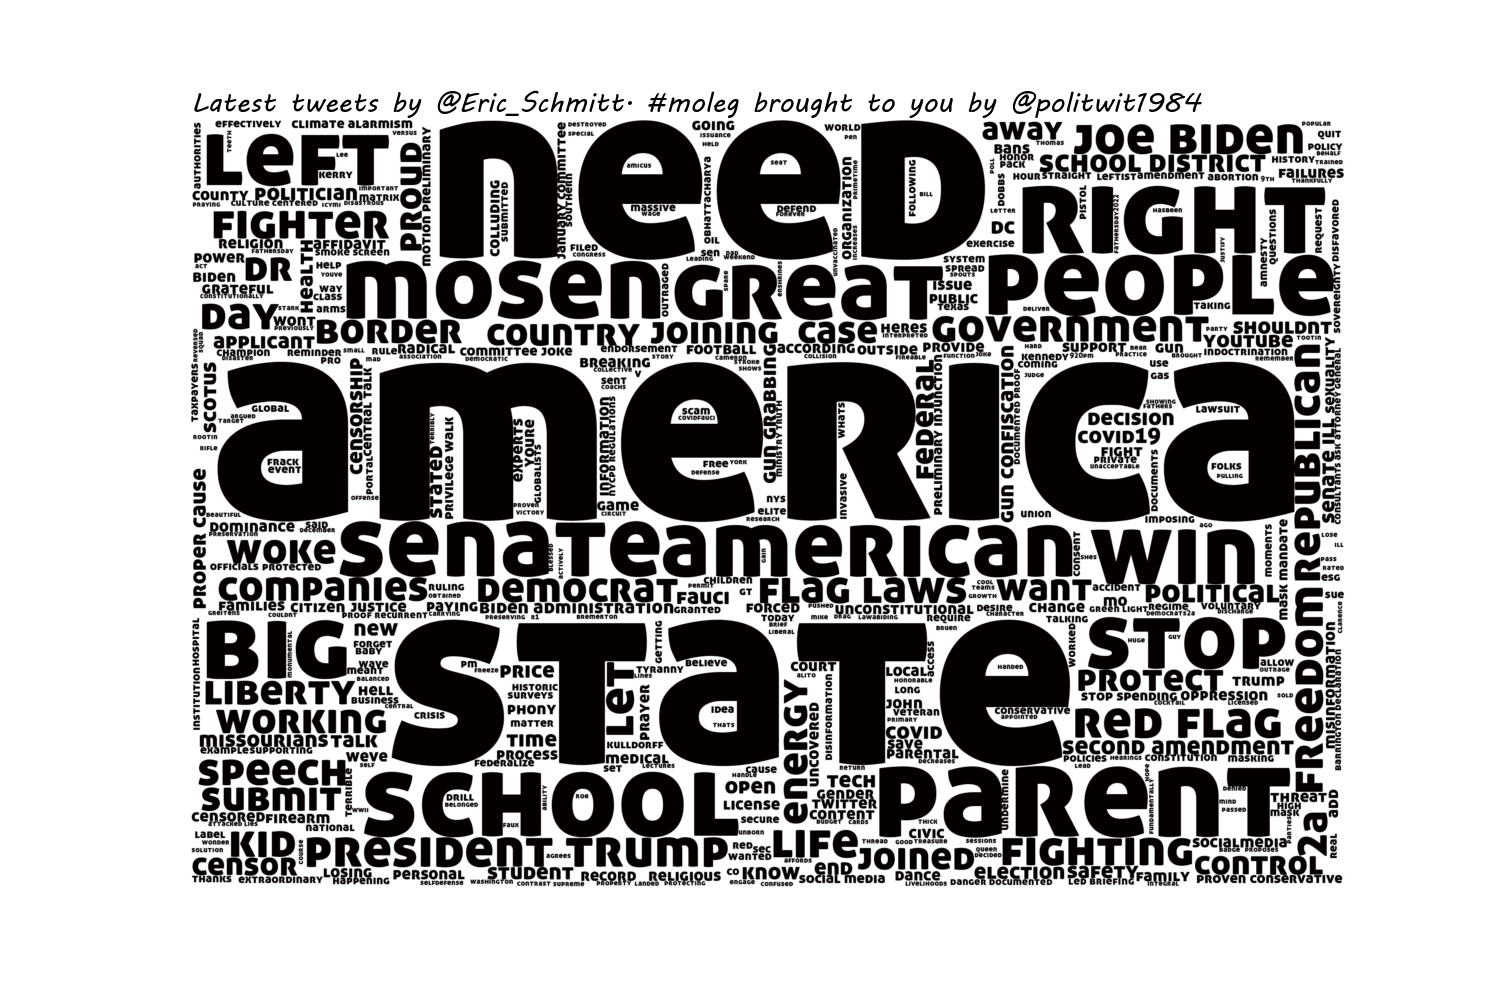
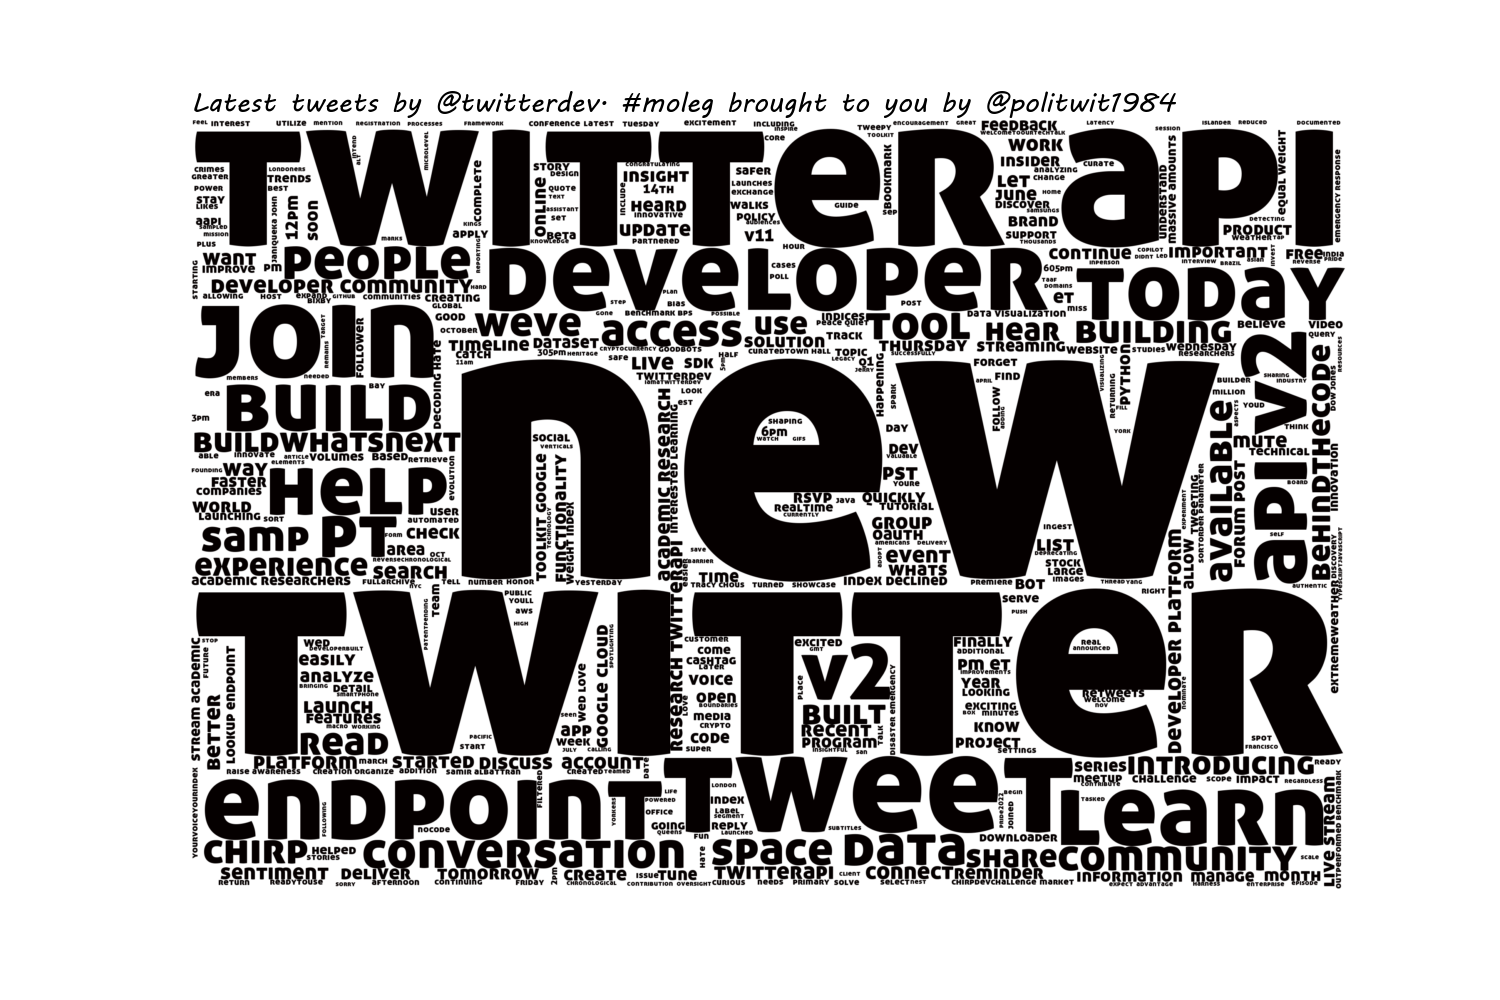
streamlit commits

diff --git a/app.py b/app.py
@@ -10,14 +10,13 @@ from nltk.tokenize import word_tokenize
 from PIL import Image
 from wordcloud import WordCloud
 import nltk
-nltk.download('punkt')
+
+nltk.download("punkt")
 
 
-auth = tweepy.OAuthHandler(st.secrets["consumer_key"],
-                           st.secrets["consumer_secret"])
+auth = tweepy.OAuthHandler(st.secrets["consumer_key"], st.secrets["consumer_secret"])
 
-auth.set_access_token(st.secrets["access_token"],
-                      st.secrets["access_token_secret"])
+auth.set_access_token(st.secrets["access_token"], st.secrets["access_token_secret"])
 
 api = tweepy.API(auth)
 client = tweepy.Client(bearer_token=st.secrets["bearer_token"])
@@ -357,7 +356,7 @@ new_stopwords = [
     "amp",
     "ive",
     "cant",
-    "dont"
+    "dont",
 ]
 
 stpwrd = []
@@ -372,7 +371,7 @@ class twitwit:
     def stringIT(self, wannabestring):
         convertedstring = ",".join(map(str, wannabestring))
         return convertedstring
-    
+
     def getFollowedList(self, user_id):
         response = client.get_followed_lists(id=user_id)
         return response
@@ -417,7 +416,7 @@ class twitwit:
                 )
                 final_clean_tweet = final_clean_tweet.lower()
                 clean_tweet_word_list.append(final_clean_tweet)
-                
+
         convertedstring = ",".join(map(str, clean_tweet_word_list))
         re.sub(" +", " ", convertedstring)
         convertedstring = convertedstring.replace(",,", " ")
@@ -459,20 +458,27 @@ class twitwit:
         else:
             img_mask = None
             location = "left"
-            
+
         title_font = {"family": "MV Boli", "color": "black", "size": 20}
 
-        wordcloud = WordCloud(font_path = 'AllerDisplay.ttf', background_color="white", width=3000, height=2000, mask = img_mask, max_words=500).generate_from_text(data)
-        wordcloud.recolor(color_func = self._black_color_func)
-        plt.figure(figsize=(15,10))
+        wordcloud = WordCloud(
+            font_path="AllerDisplay.ttf",
+            background_color="white",
+            width=3000,
+            height=2000,
+            mask=img_mask,
+            max_words=500,
+        ).generate_from_text(data)
+        wordcloud.recolor(color_func=self._black_color_func)
+        plt.figure(figsize=(15, 10))
         plt.title(title, fontdict=title_font, loc=location)
         plt.imshow(wordcloud, interpolation="bilinear")
         plt.axis("off")
         plt.show()
-        plt.savefig('words.png')
-        
+        plt.savefig("words.png")
+
         return
-    
+
     def get_user_information(self, twitter_user):
 
         dict = {}
@@ -497,73 +503,108 @@ class twitwit:
 
         return dict
 
+    def get_twitter_trends(self):
+        trend_list = []
+        response = api.get_place_trends("2486982")  # WOEID for St. Louis, MO
+
+        for i in response:
+            for key in i.keys():
+                if key == "trends":
+                    for trend in i[key]:
+                        trend_list.append(trend["name"] + ", " + trend["url"])
+
+        return trend_list
+
+
 t = twitwit()
 st.title("Twitter Utilities")
-st.set_option('deprecation.showPyplotGlobalUse', False)
+st.set_option("deprecation.showPyplotGlobalUse", False)
 
-selection_list = ["Twitter User Information", "Twitter User Wordcloud by Tweets", "Twitter User Wordcloud by Likes"]
+selection_list = [
+    "Twitter User Information",
+    "Twitter User Wordcloud by Tweets",
+    "Twitter User Wordcloud by Likes",
+    "Twitter Trends near St. Louis, MO",
+]
 st.sidebar.title("Select Twitter Tool")
-selection = st.sidebar.selectbox(label = "", options = selection_list)
+selection = st.sidebar.selectbox(label="", options=selection_list)
 
 if selection == "Twitter User Information":
     st.header("Get Twitter User Information")
     twitter_name = st.text_input(
         "Enter Twitter Screen Name to Get Information about Twitter User:"
-        )
+    )
     if twitter_name:
         user_info = t.get_user_information(twitter_name)
-        st.image(user_info['user_image_url'])
-        st.write("Link to Twitter User Profile: ", user_info['user_profile_link'])
+        st.image(user_info["user_image_url"])
+        st.write("Link to Twitter User Profile: ", user_info["user_profile_link"])
         st.write("Twitter Screen Name: ", f"@{user_info['screen_name']}")
-        st.write("Twitter User Name: ", user_info['user_name'])
-        st.write("Twitter User ID ", user_info['user_twitter_id'])
-        st.write("Twitter User Created on: ", user_info['user_created_at'])
-        st.write("Twitter User Verified Status: ", user_info['user_verified'])
-        st.write("Twitter User Description: ", user_info['user_description'])
-        st.write("Twitter User # of Tweets: ", user_info['user_tweets'])
-        st.write("Twitter User # of Liked Tweets: ", user_info['user_liked_tweets'])
-        st.write("Twitter User Followers: ", user_info['user_following_count'])
-        st.write("Twitter User Following ", user_info['user_followers_count'])
-        st.write("Twitter Geo Enabled: ", user_info['user_get_enabled'])
-        st.write("Twitter User List Membershops: ", user_info['user_listed_count'])
-        
+        st.write("Twitter User Name: ", user_info["user_name"])
+        st.write("Twitter User ID ", user_info["user_twitter_id"])
+        st.write("Twitter User Created on: ", user_info["user_created_at"])
+        st.write("Twitter User Verified Status: ", user_info["user_verified"])
+        st.write("Twitter User Description: ", user_info["user_description"])
+        st.write("Twitter User # of Tweets: ", user_info["user_tweets"])
+        st.write("Twitter User # of Liked Tweets: ", user_info["user_liked_tweets"])
+        st.write("Twitter User Followers: ", user_info["user_following_count"])
+        st.write("Twitter User Following ", user_info["user_followers_count"])
+        st.write("Twitter Geo Enabled: ", user_info["user_get_enabled"])
+        st.write("Twitter User List Membershops: ", user_info["user_listed_count"])
+
 elif selection == "Twitter User Wordcloud by Tweets":
     st.header("Get Twitter User Wordcloud From Their Recent Tweets")
     twitter_name = st.text_input(
-        "Enter Twitter screen name to get wordcloud of user's recent tweets")
-    if twitter_name:  
-            st.write("This may take up to 60 seconds but it is worth it!") 
-            st.write("Getting user's recent tweets...")
-            title = f"Latest tweets by @{twitter_name}. #moleg brought to you by @politwit1984"
-            tweets = t.getUserTweets(t.getTwitterID(twitter_name))
-            st.write("Cleaning user's tweets...")
-            washed_tweets = t.washTweetsForCloud(tweets)
-            st.write("Generating wordcloud - this is the long part...")
-            str_tweets = t.stringIT(washed_tweets)
-            t.getWordCloud(str_tweets, title, "like")
-            st.pyplot()
-            st.write("We told you that you'd like it!")
-            st.write("Right click on the image to save and tweet it out.")
-            st.write("If you want to getanotherwordcloud, just enter a new name above.")
-            
+        "Enter Twitter screen name to get wordcloud of user's recent tweets"
+    )
+    if twitter_name:
+        st.write("This may take up to 60 seconds but it is worth it!")
+        st.write("Getting user's recent tweets...")
+        title = (
+            f"Latest tweets by @{twitter_name}. #moleg brought to you by @politwit1984"
+        )
+        tweets = t.getUserTweets(t.getTwitterID(twitter_name))
+        st.write("Cleaning user's tweets...")
+        washed_tweets = t.washTweetsForCloud(tweets)
+        st.write("Generating wordcloud - this is the long part...")
+        str_tweets = t.stringIT(washed_tweets)
+        t.getWordCloud(str_tweets, title, "like")
+        st.pyplot()
+        st.write("We told you that you'd like it!")
+        st.write("Right click on the image to save and tweet it out.")
+        st.write("If you want to getanotherwordcloud, just enter a new name above.")
+
 elif selection == "Twitter User Wordcloud by Likes":
     st.header("Get Twitter User Wordcloud From Tweets They've Recently Liked")
     twitter_name = st.text_input(
-        "Enter Twitter screen name to get wordcloud of user's recent liked tweets")
-    if twitter_name:  
-            st.write("This may take up to 60 seconds but it is worth it!") 
-            st.write("Getting user's recent tweets...")
-            title = f"Tweets liked by @{twitter_name}. #moleg brought to you by @politwit1984"
-            tweets = t.getUserLikedTweets(t.getTwitterID(twitter_name))
-            st.write("Cleaning user's tweets...")
-            washed_tweets = t.washTweetsForCloud(tweets)
-            st.write("Generating wordcloud - this is the long part...")
-            st.write("While you are waiting, this is my favorite wordcloud. Many users don't post what they really think but will like tweets that they agree with. This is a great way to get a sense of what people are thinking.")
-            str_tweets = t.stringIT(washed_tweets)
-            t.getWordCloud(str_tweets, title, "likes")
-            st.pyplot()
-            st.write("We told you that you'd like it!")
-            st.write("Right click on the image to save and tweet it out.")
-            st.write("If you want to getanotherwordcloud, just enter a new name above.")
-                
+        "Enter Twitter screen name to get wordcloud of user's recent liked tweets"
+    )
+    if twitter_name:
+        st.write("This may take up to 60 seconds but it is worth it!")
+        st.write("Getting user's recent tweets...")
+        title = (
+            f"Tweets liked by @{twitter_name}. #moleg brought to you by @politwit1984"
+        )
+        tweets = t.getUserLikedTweets(t.getTwitterID(twitter_name))
+        st.write("Cleaning user's tweets...")
+        washed_tweets = t.washTweetsForCloud(tweets)
+        st.write("Generating wordcloud - this is the long part...")
+        st.write(
+            "While you are waiting, this is my favorite wordcloud. Many users don't post what they really think but will like tweets that they agree with. This is a great way to get a sense of what people are thinking."
+        )
+        str_tweets = t.stringIT(washed_tweets)
+        t.getWordCloud(str_tweets, title, "likes")
+        st.pyplot()
+        st.write("We told you that you'd like it!")
+        st.write("Right click on the image to save and tweet it out.")
+        st.write("If you want to getanotherwordcloud, just enter a new name above.")
 
+elif selection == "Twitter Trends near St. Louis, MO":
+    col1, col2, col3 = st.columns(3)
+    st.header("List of Twitter Keywords Trending Near St. Louis, MO")
+    response = t.get_twitter_trends()
+    i = 1
+    for trend in response:
+        trend_name, trend_url = trend.split(",")
+        st.write(i, trend_name)
+        st.write(trend_url)
+        i += 1

diff --git a/twitwit.py b/twitwit.py
@@ -356,7 +356,7 @@ new_stopwords = [
     "amp",
     "ive",
     "cant",
-    "dont"
+    "dont",
 ]
 
 stpwrd = nltk.corpus.stopwords.words("english")
@@ -371,7 +371,7 @@ class twitwit:
     def stringIT(self, wannabestring):
         convertedstring = ",".join(map(str, wannabestring))
         return convertedstring
-    
+
     def getFollowedList(self, user_id):
         response = client.get_followed_lists(id=user_id)
         return response
@@ -416,7 +416,7 @@ class twitwit:
                 )
                 final_clean_tweet = final_clean_tweet.lower()
                 clean_tweet_word_list.append(final_clean_tweet)
-                
+
         convertedstring = ",".join(map(str, clean_tweet_word_list))
         re.sub(" +", " ", convertedstring)
         convertedstring = convertedstring.replace(",,", " ")
@@ -458,20 +458,27 @@ class twitwit:
         else:
             img_mask = None
             location = "left"
-            
+
         title_font = {"family": "MV Boli", "color": "black", "size": 20}
 
-        wordcloud = WordCloud(font_path = 'AllerDisplay.ttf', background_color="white", width=3000, height=2000, mask = img_mask, max_words=500).generate_from_text(data)
-        wordcloud.recolor(color_func = self._black_color_func)
-        plt.figure(figsize=(15,10))
+        wordcloud = WordCloud(
+            font_path="AllerDisplay.ttf",
+            background_color="white",
+            width=3000,
+            height=2000,
+            mask=img_mask,
+            max_words=500,
+        ).generate_from_text(data)
+        wordcloud.recolor(color_func=self._black_color_func)
+        plt.figure(figsize=(15, 10))
         plt.title(title, fontdict=title_font, loc=location)
         plt.imshow(wordcloud, interpolation="bilinear")
         plt.axis("off")
         plt.show()
-        plt.savefig('words.png')
-        
+        plt.savefig("words.png")
+
         return
-    
+
     def get_user_information(self, twitter_user):
 
         dict = {}
@@ -496,12 +503,26 @@ class twitwit:
 
         return dict
 
-user = "meaccoleman"
+    def get_twitter_trends(self):
+        trend_list = []
+        response = api.get_place_trends("2486982")  # WOEID for St. Louis, MO
+        
+        for i in response:
+            for key in i.keys():
+                if key == "trends":
+                    for trend in i[key]:
+                        trend_list.append(trend["name"])
+
+        return trend_list
+
+
+# user = "meaccoleman"
 
 
 t = twitwit()
-user_info = t.get_user_information(user)
-print(user_info.get("user_created_at"))
+print(t.get_twitter_trends())
+# user_info = t.get_user_information(user)
+# print(user_info.get("user_created_at"))
 # response = t.getFollowedList(t.getTwitterID("piper4missouri"))
 
 # print(response)
@@ -518,5 +539,3 @@ print(user_info.get("user_created_at"))
 
 # t.getWordCloud(
 #  str_tweets, title, "none")
-
-
